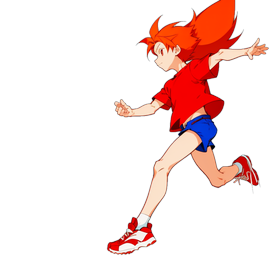
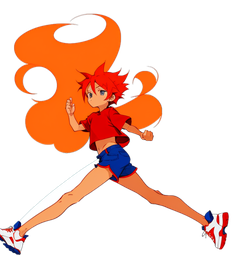
修复跑步平移感：ControlNet 真正生效 + 大步幅剪刀差循环
- 根因一：Forge CN API 的 module 应为大写 "None" 且需显式 processor_res/threshold 参数，此前扩展每次静默崩溃，骨架从未参与生成（同种子同提示词恒定出图）
- 根因二：旧骨架步幅过小，脚部扫过仅约 9px/步而地面滚动 60px/步，滑动率 85% 视觉上即平移
- 重画大跨步骨架（支撑脚从身前 -148 扫到身后 +128，约 2 倍髋高），重出跑步四帧
- 后处理新增青色特效带硬抠（角色配色无青色），逐姿势按种子筛选干净帧
- 角色绘制高 70 → 96px，跑步弹跳 6 → 8px，步频 0.056（2.6 步/秒@280）与地面匹配

diff --git a/jump-runner/js/player.js b/jump-runner/js/player.js
@@ -96,7 +96,7 @@ class Player {
     this.vy += 2500 * dt;
     this.y += this.vy * dt;
     if (this.grounded) {
-      this.run += dt * speed * 0.052; // 步频与地面滚动速度匹配（约 2.4 步/秒 @280px/s）
+      this.run += dt * speed * 0.056; // 步频与地面滚动速度匹配（约 2.6 步/秒 @280px/s）
     }
     // 挤压拉伸缓慢恢复
     this.sx += (1 - this.sx) * Math.min(1, dt * 12);
@@ -205,7 +205,7 @@ class Player {
         // 步行/滑铲/空中：超采样姿势画布（落地挤压拉伸作用于贴图）
         const bodyC = poseCanvas(skin, poseKey, (pc) => Player.drawChibi(pc, skin, chibiOpts));
         // 跑步上下起伏：每步一次弹跳（腾空相整体抬高，触地相贴地），否则像滑行
-        const bob = this.grounded && this.slide <= 0 ? -Math.abs(Math.sin(this.run)) * 6 : 0;
+        const bob = this.grounded && this.slide <= 0 ? -Math.abs(Math.sin(this.run)) * 8 : 0;
         ctx.save();
         ctx.translate(x, y + bob);
         ctx.scale(this.sx, this.sy);
@@ -931,7 +931,7 @@ const ACTOR_RUN = ['run1', 'run2', 'run3', 'run4'];
 const ACTOR_POSES = ACTOR_RUN.concat(['jump', 'fall', 'slide', 'ride-pony', 'ride-bicycle', 'ride-moto', 'ride-dino']);
 // 骑乘一体图（含坐骑）的绘制总高（逻辑 px），底部=地面
 const RIDE_DRAW_H = { pony: 104, bicycle: 98, moto: 92, dino: 110 };
-const ACTOR_H = 70; // 站立/跑/跳姿势图绘制高
+const ACTOR_H = 96; // 站立/跑/跳姿势图绘制高
 const actorImgs = {};
 let actorCount = 0;
 let actorCacheCleared = false;
